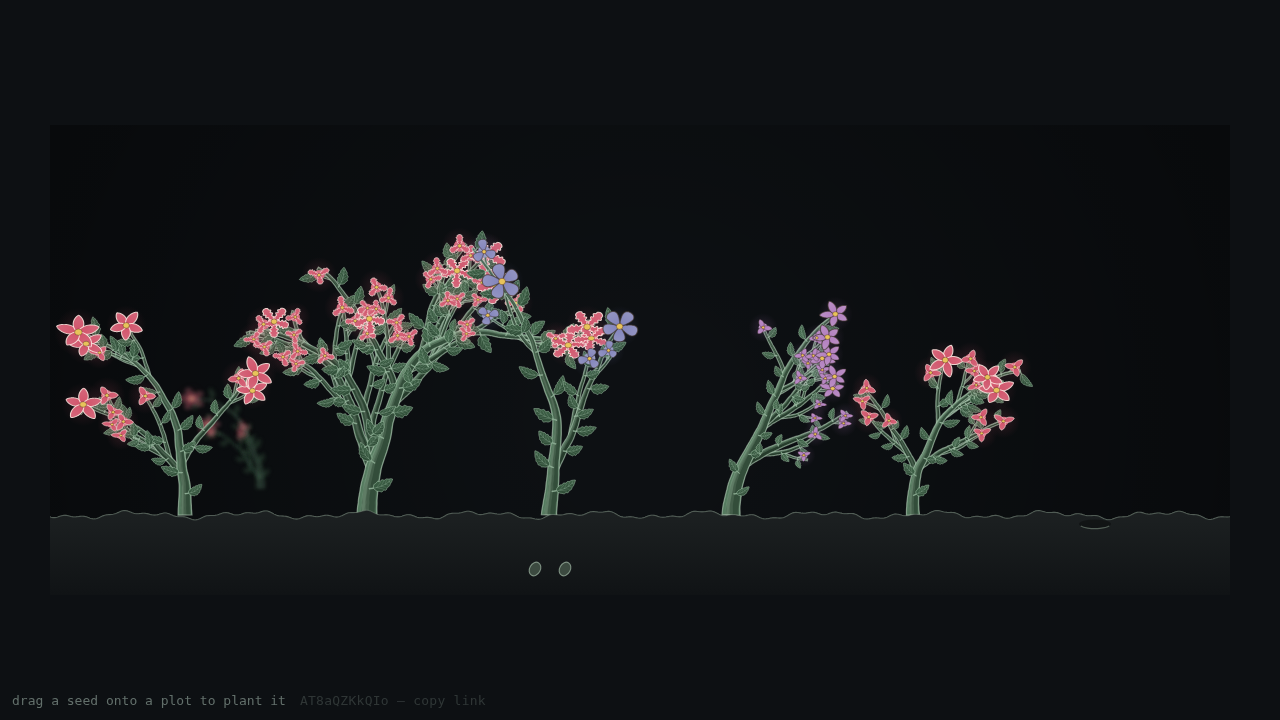
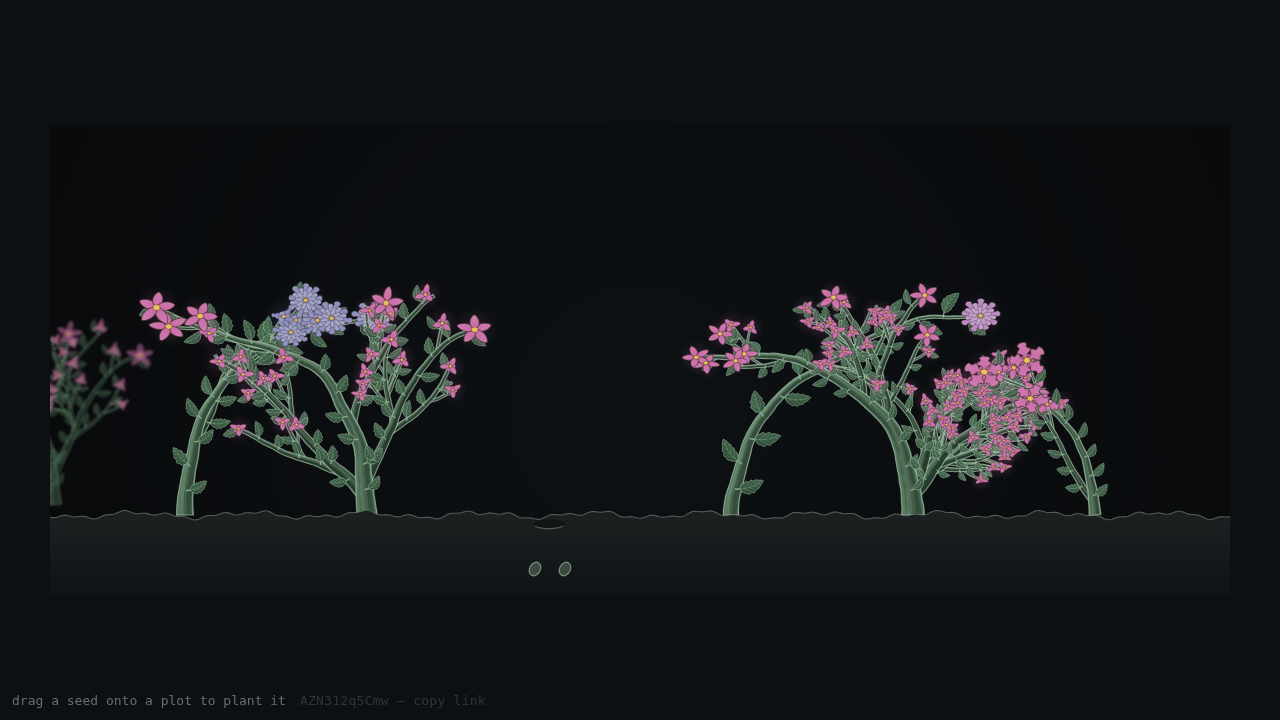
fix(garden): the canvas was squashed to a third of its width on a phone
`max-width: 100vw` against a fixed inline height clamps the width and leaves the
height alone, so 1180x470 of content (aspect 2.51) was painted into a 412x470
box (aspect 0.88) — a 185% distortion. Plants rendered as thin vertical
smears. It looked correct on every desktop viewport, which is why it survived
until the site was reachable from a phone.

Both dimensions now come from ONE scale factor in fitCanvas(), so the box cannot
disagree with the drawing buffer's proportions whatever the viewport does, and
it re-fits on resize and orientationchange. Never magnifies past 1 — the art is
authored at this size and upscaling only softens the linework.

Also: the hint wrapped to two lines on a narrow screen and pushed itself over
the seed tray it was describing. It is one ellipsised line now, and a portrait
phone gets a note that landscape is bigger — the scene is 2.5:1, so portrait is
a strip whatever we do.

tools/check-viewports.mjs is the regression guard, added to `npm run drive`. It
was SEEN FAILING: 185% distortion against the pre-fix code, 0.0-0.2% after,
with the 2% threshold far below the defect and far above rounding.

Touch was verified separately and already worked — tap-to-clone and
drag-to-plant both fire on a Pixel 7 with no mouse. The pointer-events plus
`touch-action: none` choice paid off; only the geometry was wrong.

Claude-Session: https://claude.ai/code/session_01VfiG5tCDpmCmCD7qx7CSzA

Changed region(s): [[0.0312, 0.3056, 0.5, 0.7333], [0.5312, 0.3972, 0.875, 0.7333]]

diff --git a/garden/index.html b/garden/index.html
@@ -22,19 +22,54 @@
         display: grid;
         place-items: center;
       }
+      /* Size comes from fitCanvas() in JS, from a single scale factor applied to BOTH
+         dimensions. `max-width: 100vw` against a fixed inline height is what squashed the
+         canvas to a third of its width on a phone. */
       canvas {
         display: block;
-        max-width: 100vw;
-        max-height: 100vh;
       }
       #hud {
         position: fixed;
         left: 12px;
+        right: 12px;
         bottom: 10px;
         display: flex;
         gap: 14px;
         align-items: center;
         opacity: 0.75;
+      }
+      #hint {
+        /* One line, always. On a narrow screen the hint wrapped to two and pushed itself
+           over the seed tray it was describing. */
+        overflow: hidden;
+        text-overflow: ellipsis;
+        white-space: nowrap;
+        min-width: 0;
+      }
+      @media (max-width: 620px) {
+        #hud {
+          font-size: 11px;
+        }
+        /* The scene is 2.5:1. In portrait on a phone it survives, but it is a strip —
+           saying so beats leaving someone to wonder why the garden is tiny. */
+        #rotate {
+          display: block;
+        }
+      }
+      #rotate {
+        display: none;
+        position: fixed;
+        top: 10px;
+        left: 0;
+        right: 0;
+        text-align: center;
+        opacity: 0.55;
+        font-size: 11px;
+      }
+      @media (orientation: landscape) {
+        #rotate {
+          display: none;
+        }
       }
       button {
         background: #1a2124;
@@ -68,6 +103,7 @@
     </style>
   </head>
   <body>
+    <div id="rotate">turn your phone sideways for a bigger garden</div>
     <div id="wrap"><canvas id="c"></canvas></div>
     <div id="hud">
       <span id="hint"></span>

diff --git a/garden/garden.ts b/garden/garden.ts
@@ -55,10 +55,34 @@ const codeEl = document.getElementById("code")!;
 const dpr = Math.min(2, window.devicePixelRatio || 1);
 canvas.width = W * dpr;
 canvas.height = H * dpr;
-canvas.style.width = `${W}px`;
-canvas.style.height = `${H}px`;
 const ctx = canvas.getContext("2d")!;
 ctx.scale(dpr, dpr);
+
+/**
+ * Size the canvas box to the viewport WITHOUT distorting it.
+ *
+ * The CSS was `max-width: 100vw` against an inline `height: 470px`. On a phone that clamps
+ * the width to 412 and leaves the height alone, so 1180x470 of content — aspect 2.51 — was
+ * being painted into a box of aspect 0.88: a 2.9x horizontal squash. It looked fine on every
+ * desktop viewport, which is why it survived until the site was reachable from a phone.
+ *
+ * Both dimensions are set from ONE scale factor, so the box can never disagree with the
+ * drawing buffer's proportions whatever the viewport does. Never magnifies past 1: the art is
+ * authored at this size and upscaling it just softens the linework.
+ */
+function fitCanvas(): void {
+  const margin = 8;
+  const scale = Math.min(
+    1,
+    (window.innerWidth - margin * 2) / W,
+    (window.innerHeight - 74) / H, // leave the HUD its line
+  );
+  canvas.style.width = `${Math.round(W * scale)}px`;
+  canvas.style.height = `${Math.round(H * scale)}px`;
+}
+fitCanvas();
+window.addEventListener("resize", fitCanvas);
+window.addEventListener("orientationchange", fitCanvas);
 
 const plotXs = Array.from({ length: PLOTS }, (_, i) => {
   const inset = 135;
